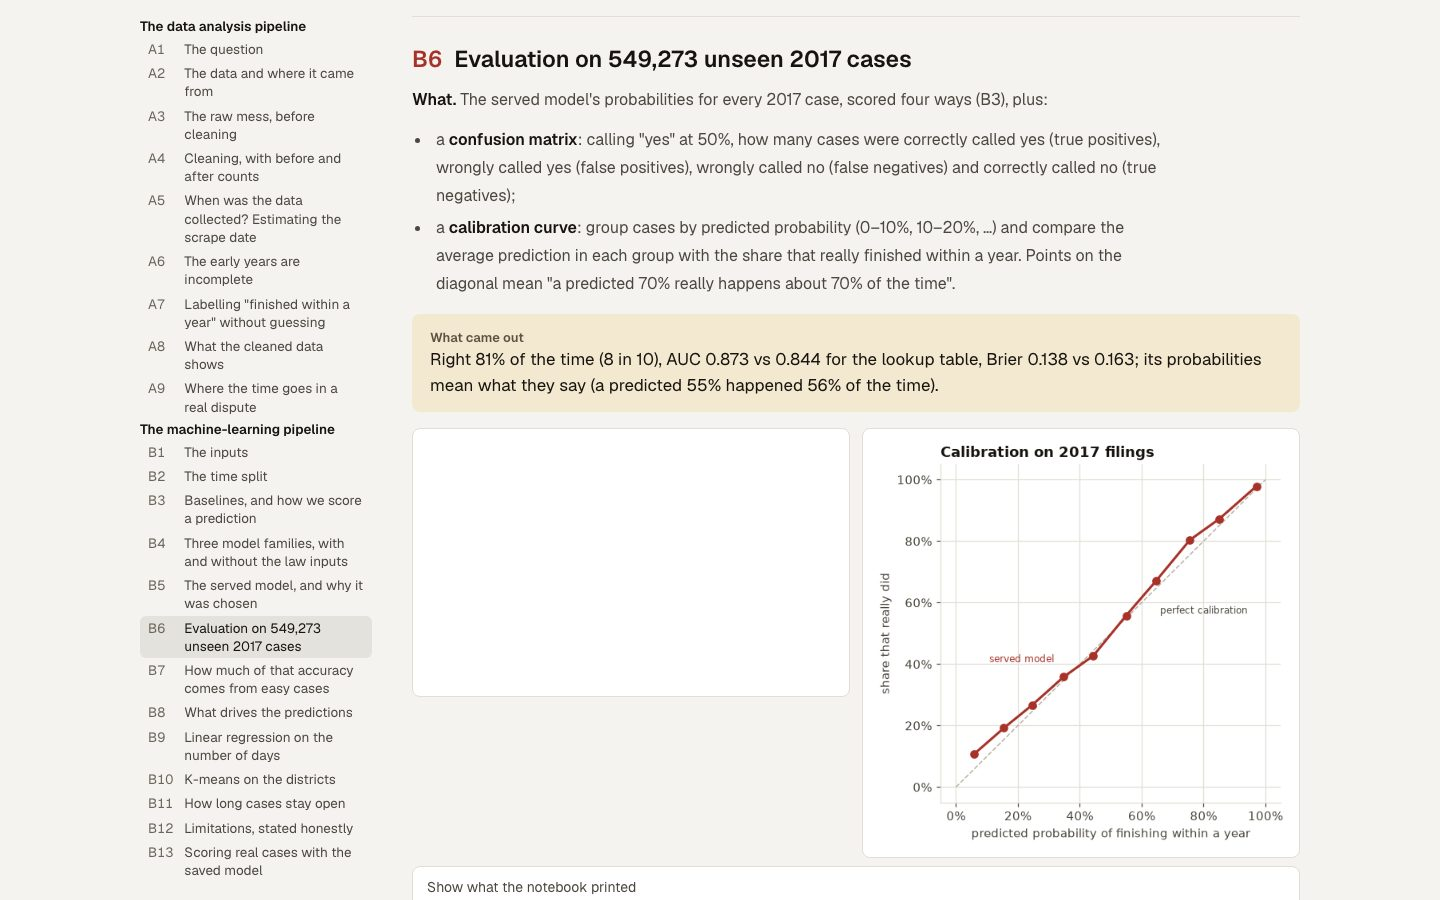
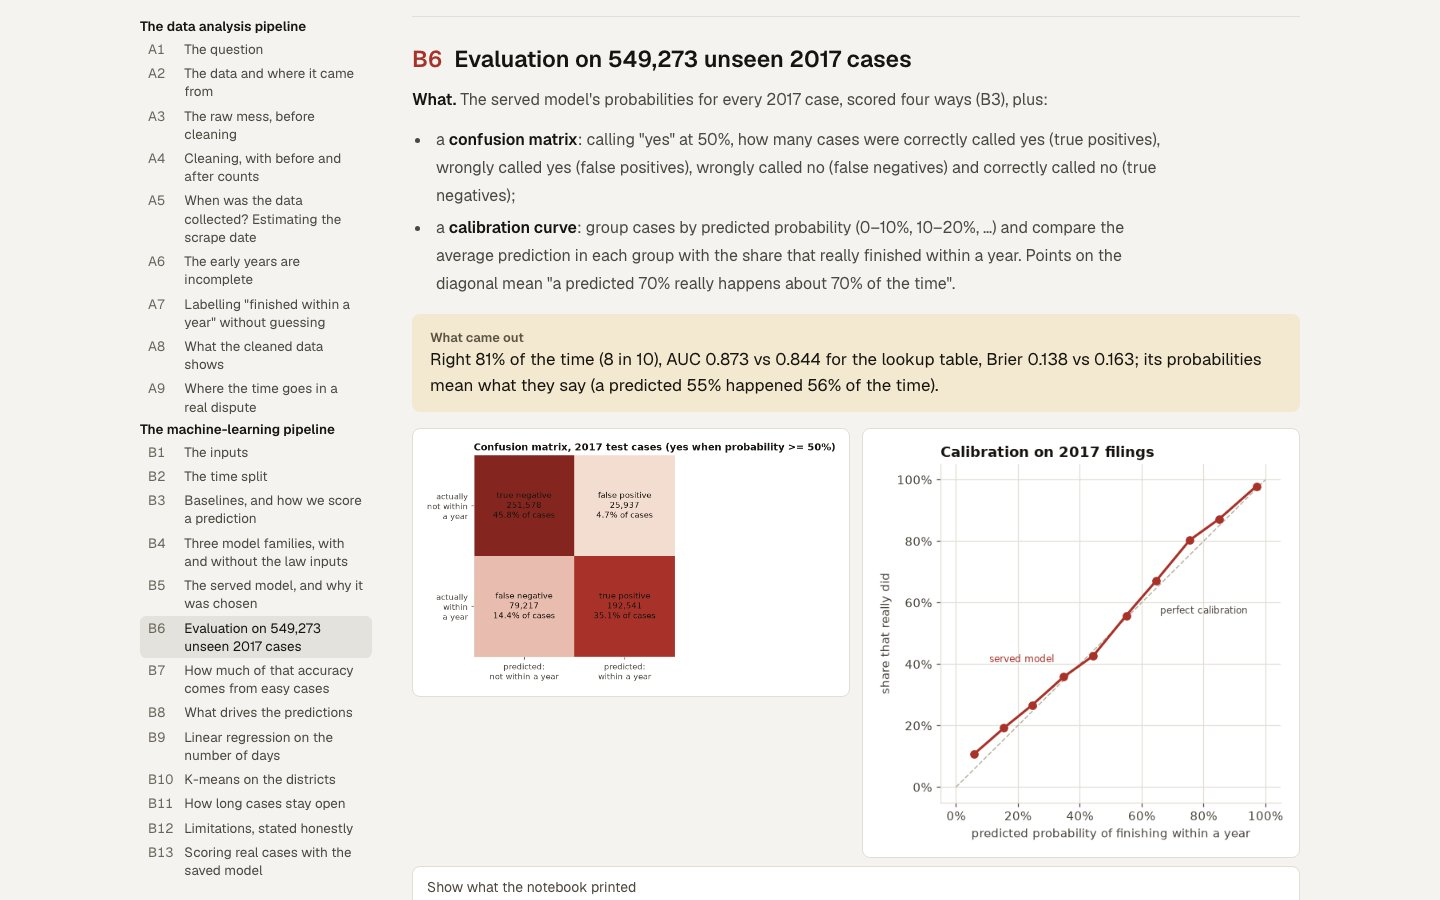
docs(pipeline): 2016 share is 43%, collection dates match the cutoff rule, full B6 screenshot

Changed region(s): [[0.3125, 0.4978, 0.4688, 0.7467]]

diff --git a/pipeline/README.md b/pipeline/README.md
@@ -161,8 +161,9 @@ was replaced; the tests now cover both traps plus vacation dips.
 - **80,935,944 cases** filed 2010-2018: 4.28 M (2010) rising to 13.72 M (2018).
   **Tamil Nadu: 3,640,055.**
 - **Scrape dates, from all filing years together:** almost every state was scraped in
-  **January-February 2019**; a few later (Kerala, Gujarat March 2019; West Bengal, Chandigarh
-  early 2020). Tamil Nadu's monthly decisions: ~45-85k a month in 2018, 32k in Jan 2019, 13k in
+  **January-February 2019**; a few looked later on this first count (Kerala, Gujarat March 2019; West Bengal,
+  Chandigarh early 2020), but the per-district rule below puts them at January 2019 too
+  (`reports/analysis.md`). Tamil Nadu's monthly decisions: ~45-85k a month in 2018, 32k in Jan 2019, 13k in
   Feb, 4.5k in March, so the scrape ran *during* February. We use "the last month with at least
   half a normal month" (TN districts: Dec 2018 to Feb 2019) so partly scraped months don't make
   decided cases look pending.
@@ -182,7 +183,7 @@ the cutoff" because one district's dip gave it a 2012 cutoff); outcome groups: d
 no disposition 26%, dismissed 19%, **moved 14%**, disposed (manner unknown) 5%, settled 3%.
 A first version of the one-year label was biased: 2018 filings came out about 93% "within a year"
 because only fast cases could be known. Fixed by requiring full follow-up (filed ≥1 year before
-the cutoff). Eligible: 405k (2015), 446k (2016), 549k (2017) cases; 36%, 44%, 49% within a year.
+the cutoff). Eligible: 405k (2015), 446k (2016), 549k (2017) cases; 36%, 43%, 49% within a year.
 
 ### The model (full tables: [`reports/within_1y.md`](reports/within_1y.md), write-up: [`REPORT.md`](REPORT.md))
 Test = 549,273 cases filed in 2017, never seen during training or model choice.

diff --git a/pipeline/REPORT.md b/pipeline/REPORT.md
@@ -99,7 +99,7 @@ they were. **We model 2015–2017 filings only.**
   court's cutoff, so every labelled case had the full year. A first version labelled recent cases
   that ended fast while their slow neighbours were unknown: 2018 filings came out about 93% "within a
   year". The fix is the eligibility rule; transfers before a year stay unlabelled.
-- Eligible: 405,062 (2015), 445,639 (2016), 549,273 (2017) cases; 36%, 44% and 49% disposed of
+- Eligible: 405,062 (2015), 445,639 (2016), 549,273 (2017) cases; 36%, 43% and 49% disposed of
   within a year.
 
 ## 4. Exploratory analysis
